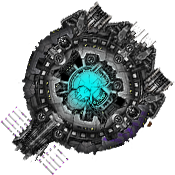
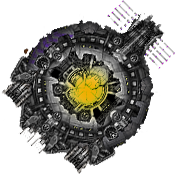
turn sprites; team to mathership;

diff --git a/astrobox/core.py b/astrobox/core.py
@@ -137,7 +137,7 @@ class Dron(AstroUnit):
 class Asteroid(AstroUnit):
     radius = 50
     selectable = False
-    counter_attrs = dict(size=16, position=(43, 45), color=(128, 128, 128))
+    counter_attrs = dict(size=16, position=(43, 45), color=(255, 255, 255))
 
     def __init__(self, coord, max_elerium=None):
         super(Asteroid, self).__init__(coord=coord)
@@ -163,15 +163,14 @@ class MatherShip(AstroUnit):
     selectable = False
     counter_attrs = dict(size=22, position=(60, 92), color=(255, 255, 0))
 
-    def __init__(self, coord, max_elerium):
+    def __init__(self, coord, max_elerium, team=1):
         super(MatherShip, self).__init__(coord=coord)
         CargoBox.__init__(self, initial_cargo=0, maximum_cargo=max_elerium)
+        self.__team = team
 
     @property
     def sprite_filename(self):
-        # TODO тут надо допилить что бы матка была тоже в команде? иначе как спрайт рендерить?
-        # return 'mathership_{}.png'.format(self.team)
-        return 'mathership_1.png'
+        return 'mathership_{}.png'.format(self.__team)
 
     @property
     def counter(self):

diff --git a/demo/game.py b/demo/game.py
@@ -154,20 +154,20 @@ class Next2Dron(GreedyDron):
 if __name__ == '__main__':
     star_field = StarField(
         name="Space war",
-        speed=1,
+        speed=5,
         theme_mod_path='astrobox.themes.default',
         # field=(800, 600),
-        asteroids_count=20,
-        matherships_count=4,
+        asteroids_count=10,
+        matherships_count=1,
     )
 
     count = 10
     drones = [WorkerDron(coord=Point(400, 400)) for i in range(count)]
-    drones_2 = [GreedyDron() for i in range(count)]
-    drones_3 = [HunterDron() for i in range(count)]
-    drones_4 = [Next2Dron() for i in range(count)]
+    # drones_2 = [GreedyDron() for i in range(count)]
+    # drones_3 = [HunterDron() for i in range(count)]
+    # drones_4 = [Next2Dron() for i in range(count)]
 
-    dron = WorkerDron()
-    dron.move_at(Point(1000, 1000))  # проверка на выход за границы экрана
+    # dron = WorkerDron()
+    # dron.move_at(Point(1000, 1000))  # проверка на выход за границы экрана
 
     star_field.go()

diff --git a/astrobox/spase_field.py b/astrobox/spase_field.py
@@ -123,7 +123,7 @@ class StarField(Scene):
                 pos = Point(90, theme.FIELD_HEIGHT - 75)
             else:
                 pos = Point(theme.FIELD_WIDTH - 90, theme.FIELD_HEIGHT - 75)
-            mathership = MatherShip(coord=pos, max_elerium=max_elerium)
+            mathership = MatherShip(coord=pos, max_elerium=max_elerium, team=team+1)
             self.__matherships.append(mathership)
 
     def get_mathership(self, team):

diff --git a/astrobox/themes/default/__init__.py b/astrobox/themes/default/__init__.py
@@ -4,7 +4,7 @@ import os
 
 PICTURES_PATH = os.path.dirname(__file__)
 
-BACKGROUND_COLOR = (85, 107, 47)
+BACKGROUND_IMAGE = os.path.join(PICTURES_PATH, 'background.png')
 
 FIELD_WIDTH = 1200
 FIELD_HEIGHT = 600
